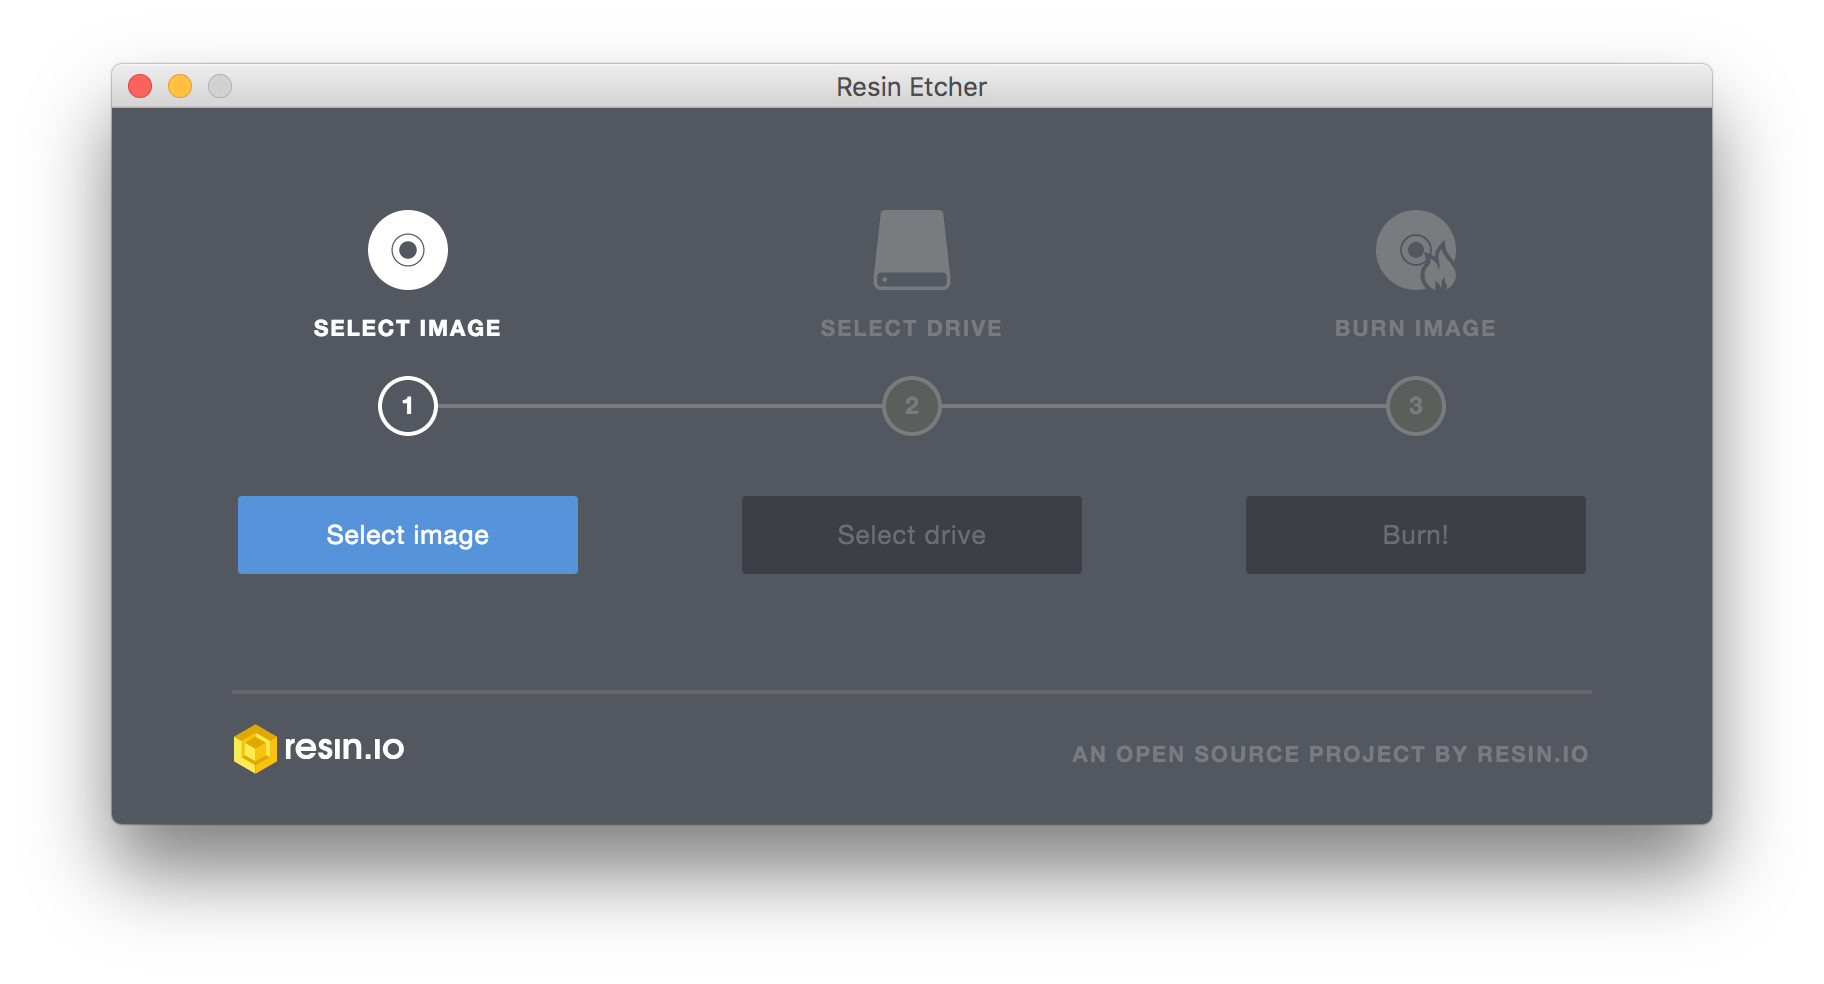
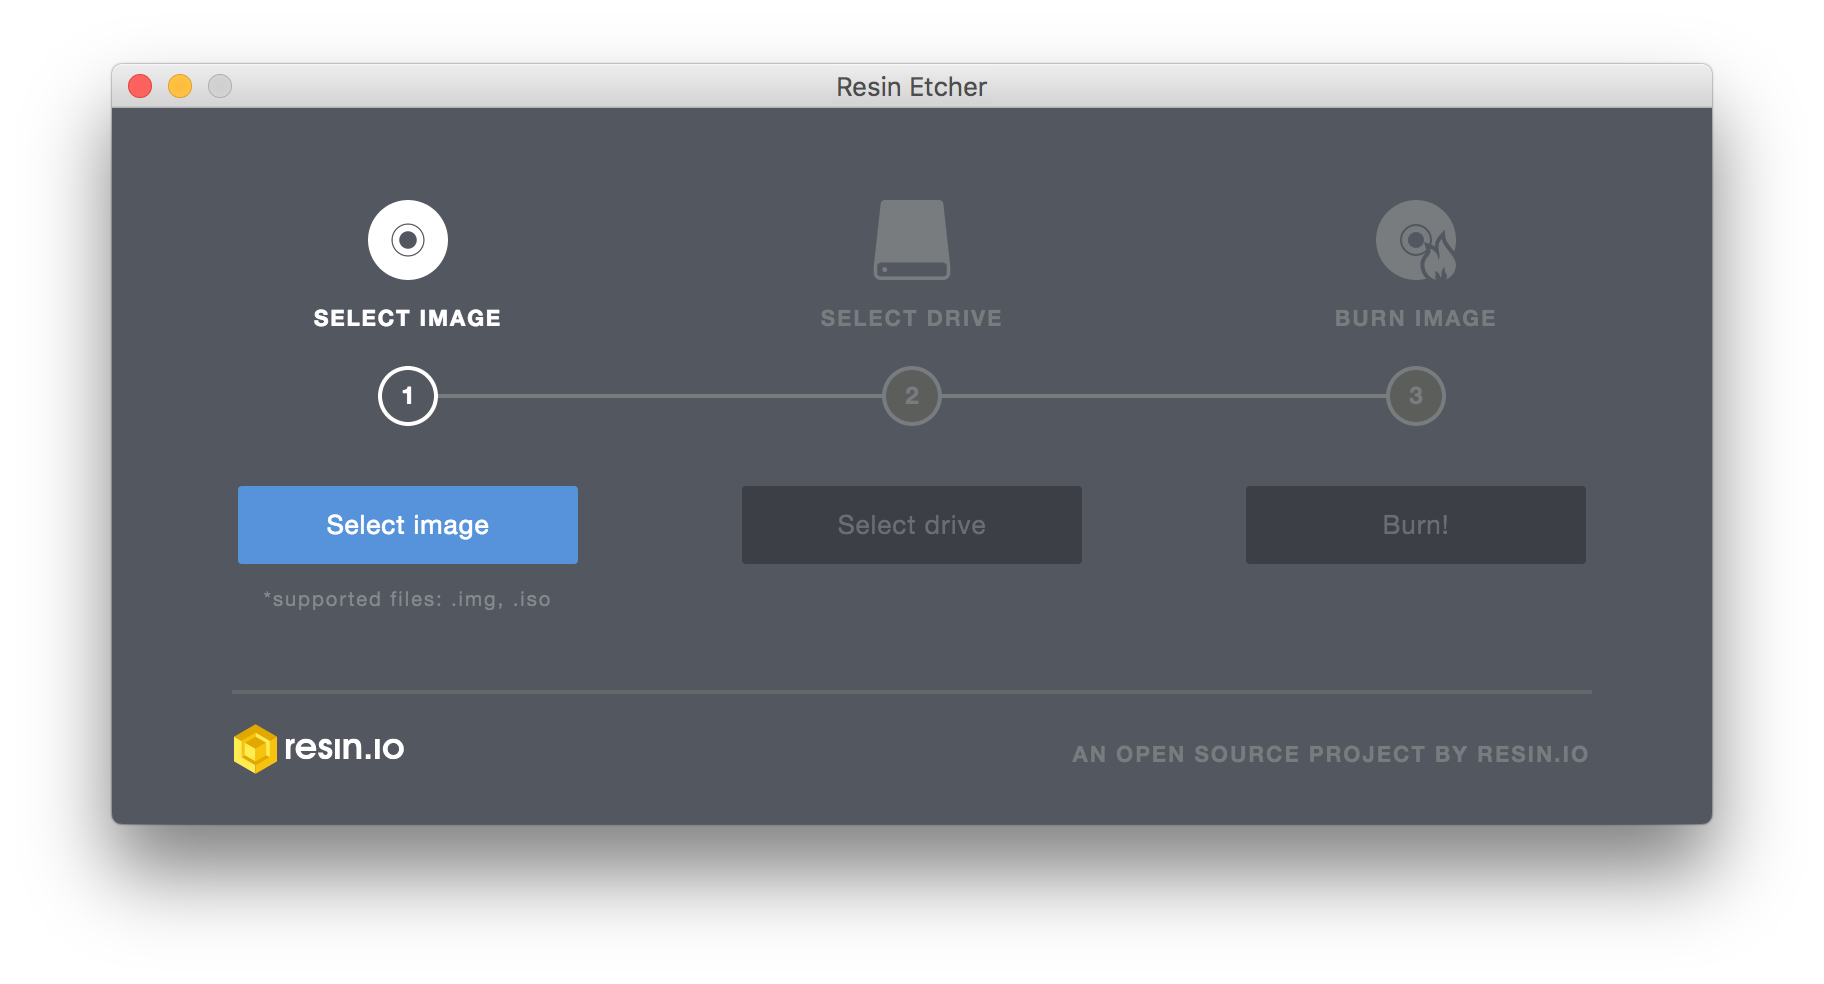
Add image format footer explanation
Fixes: https://github.com/resin-io/resin-etcher/issues/86

diff --git a/lib/index.html b/lib/index.html
@@ -32,6 +32,8 @@
                 <div ng-show="app.selection.hasImage()">
                   <span ng-bind="app.selection.getImage() | basename"></span>
                 </div>
+
+                <p class="step-footer tiny">*supported files: .img, .iso</p>
               </div>
             </div>
           </div>

diff --git a/build/css/main.css b/build/css/main.css
@@ -5993,3 +5993,6 @@ body {
   margin-bottom: -40px;
   color: #85898c;
   font-size: 12px; }
+
+.tiny {
+  font-size: 10px; }

diff --git a/lib/scss/main.scss b/lib/scss/main.scss
@@ -151,3 +151,7 @@ body {
   color: lighten($color-disabled, 5%);
   font-size: 12px;
 }
+
+.tiny {
+  font-size: 10px;
+}
